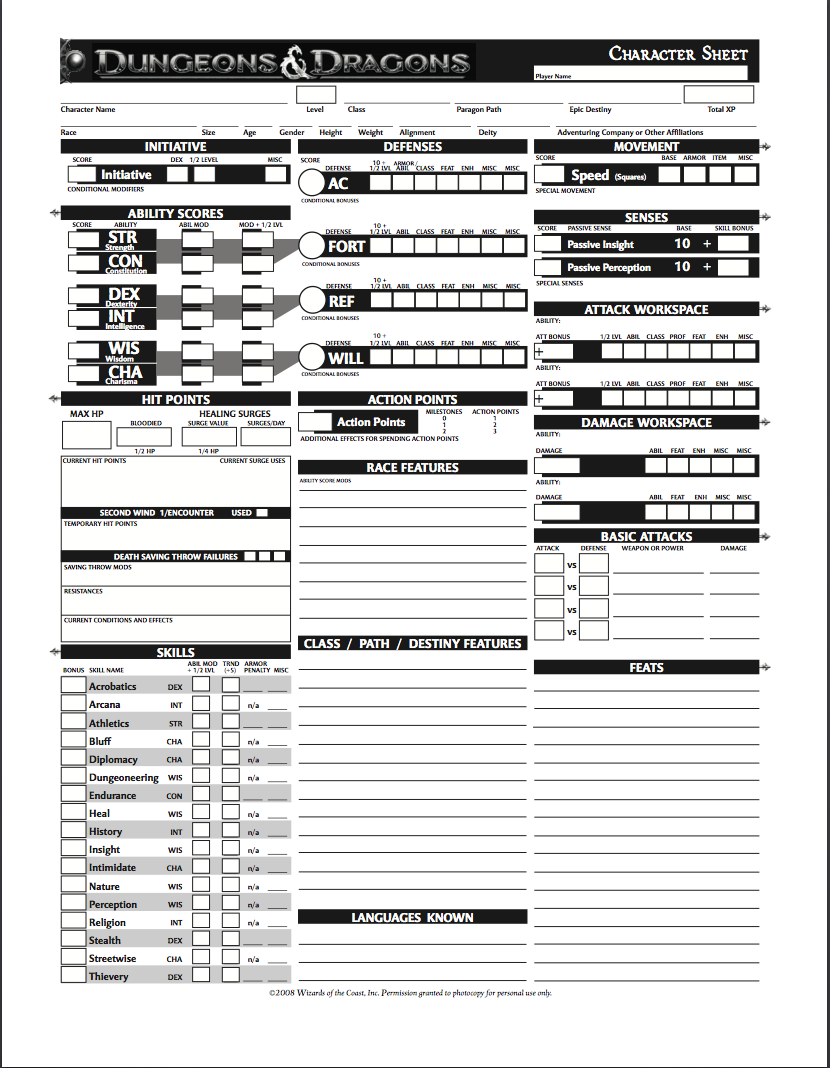
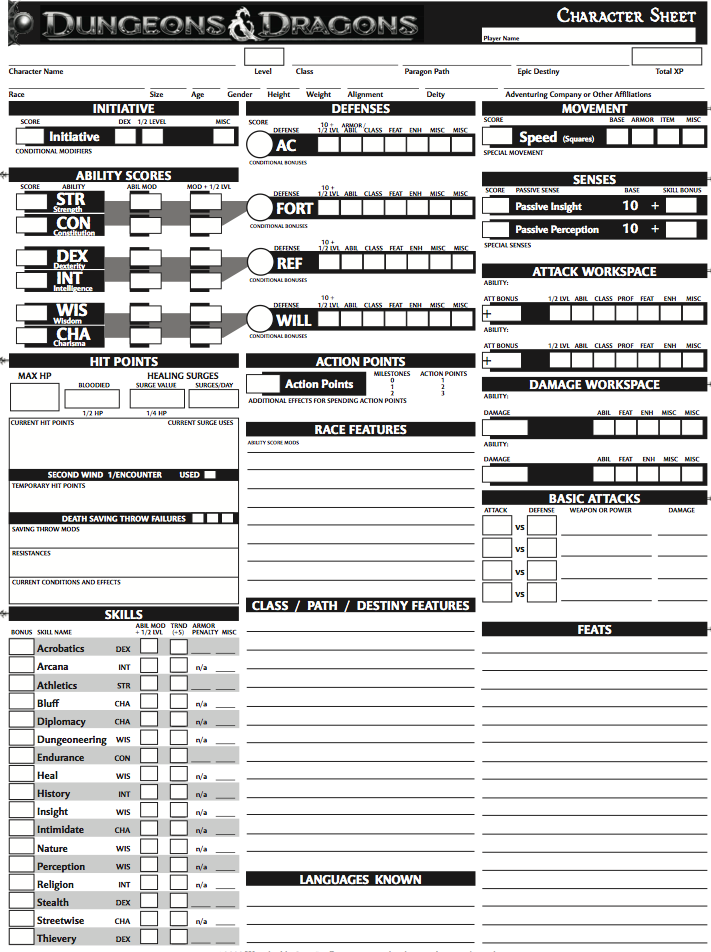
mhrbdfsgksj

diff --git a/DNDGraphics.java b/DNDGraphics.java
@@ -4,17 +4,22 @@ import java.awt.*;
 import java.awt.Font;
 import java.util.Random;
 import java.awt.event.*;
+import javax.imageio.*;
+import java.io.*;
 
 
 public class DNDGraphics extends Applet implements MouseListener, MouseMotionListener{
 
 
-   int[] yPoints = {250,550,550};
-   int[] xPoints = {1350,1150,1550};
+   int[] yPointsTriangle = {250,550,550};
+   int[] xPointsTriangle = {1350,1150,1550};
    
    int mouseX;
    int mouseY;
    
+   public Image img = null;
+   public Image imag = null;
+      
    public boolean ifD4 = false;
    public boolean ifD6 = false;
    public boolean ifD8 = false;
@@ -23,8 +28,15 @@ public class DNDGraphics extends Applet implements MouseListener, MouseMotionLis
    public boolean ifD20 = false;
    public boolean ifRollButtonPressed;
    public boolean mouseDown;
+   public boolean ifReset = false;
+   public boolean ifFlipped = true;
+   public boolean ifEdit = false;
+   
+   DiceRoller something = new DiceRoller();
+   
+   public Font myFont = new Font("Comic Sans MS", Font.BOLD, 48);
+   public Font normal = new Font("serif", Font.BOLD, 20);
 
-   public int n;
    public int die;
    public String theDie = "";
    
@@ -32,9 +44,12 @@ public class DNDGraphics extends Applet implements MouseListener, MouseMotionLis
       setSize(1915, 1280);
       setBackground(new Color(102, 51, 0));
       addMouseListener(this);
-      addMouseMotionListener(this);      /*
-      Font myFont= new Font("TimesRoman", Font.BOLD, 24);
-      theDie.setFont(myFont);*/ 
+      addMouseMotionListener(this);   
+      try {
+           img = ImageIO.read(new File("DND Front Sheet1.png"));
+           imag = ImageIO.read(new File("DND Back Sheet1.png"));
+       } catch (IOException e) {
+       }   
    }
    
    public void mouseClicked(MouseEvent e){
@@ -61,9 +76,18 @@ public class DNDGraphics extends Applet implements MouseListener, MouseMotionLis
    }
    
    public void paint(Graphics g){
-      
-      g.setColor(Color.white);
-      g.fillRect(15, 15, 750, 895);
+   g.setFont(normal);
+      if(ifFlipped){
+         /*g.setColor(Color.white);
+         g.fillRect(15, 15, 750, 895);
+         */
+         g.drawImage(img,15,15,null);
+      }
+      else{
+         /*g.setColor(Color.black);
+         g.fillRect(15,15,750,895);*/
+         g.drawImage(imag,15,15,null);
+      }   
       
       g.setColor(Color.gray);
       g.fillRect(1690,25,100,50);
@@ -73,50 +97,136 @@ public class DNDGraphics extends Applet implements MouseListener, MouseMotionLis
       g.fillRect(1090,25,100,50);
       g.fillRect(940,25,100,50);
       g.fillRect(1250,700,200,100);
+      g.fillRect(1550,700,200,100);
+      g.fillRect(730,75,50,50);
+      g.fillRect(730,850,50,50);
       
       if(mouseDown && mouseX>=1250 && mouseX<=1450 && mouseY>=700 && mouseY<=800)
          ifRollButtonPressed = true;
-      else
-         ifRollButtonPressed = false;
+
       if(mouseDown && mouseX>=1690 && mouseX<=1790 && mouseY>=25 && mouseY<=75)
         ifD20  = true;
-      else
-        ifD20  = false;
+
       if(mouseDown && mouseX>=1540 && mouseX<=1640 && mouseY>=25 && mouseY<=75)
         ifD12  = true;
-      else
-        ifD12  = false;
+
       if(mouseDown && mouseX>=1390 && mouseX<= 1490 && mouseY>=25 && mouseY<=75)
         ifD10  = true;
-      else
-         ifD10 = false;
+
       if(mouseDown && mouseX>=1240 && mouseX<=1340 && mouseY>=25 && mouseY<=75)
          ifD8 = true;
-      else
-         ifD8 = false;
+
       if(mouseDown && mouseX>=1090 && mouseX<=1190 && mouseY>=25 && mouseY<=75)
          ifD6 = true;
-      else
-         ifD6 = false;
+         
       if(mouseDown && mouseX>=940 && mouseX<=1040 && mouseY>=25 && mouseY<=75)
-         ifD4 = true;
-      else  
-         ifD4 = false;               
+         ifD4 = true; 
+         
+      if(mouseDown && mouseX>=1550 && mouseX<=1750 && mouseY>=700 && mouseY<=800)
+         ifReset = true;
+      else
+         ifReset = false;  
+      
+      if(mouseDown && mouseX>730 && mouseX<=780 && mouseY>=75 && mouseY<=125){
+         if(ifFlipped){
+            ifFlipped = false; 
+            g.setColor(Color.darkGray);
+            g.fillRect(730,75,50,50);
+         }    
+         else{
+            ifFlipped = true;
+            g.setColor(Color.darkGray);
+            g.fillRect(730,75,50,50); 
+         }     
+      }      
+      if(mouseDown && mouseX>=730 && mouseX<=780 && mouseY>=850 && mouseY<=900)
+         ifEdit = true;
+      else
+         ifEdit = false;        
+             
+      if(ifReset){
+         g.setColor(Color.darkGray);
+         g.fillRect(1550,700,200,100);
+         ifD4 = false;
+         ifD6 = false;
+         ifD8 = false;
+         ifD10 = false;
+         ifD12 = false;
+         ifD20 = false;
+         ifRollButtonPressed = false;
+      }            
+      if(ifEdit){
+         g.setColor(Color.darkGray);
+         g.fillRect(730,850,50,50);
+      }                 
       if(ifRollButtonPressed){
          g.setColor(Color.darkGray);
          g.fillRect(1250,700,200,100);
-         if(ifD4)
-            DiceRollerD4();
-         if(ifD6)
-            DiceRollerD6();
-         if(ifD8)
-            DiceRollerD8();
-         if(ifD10)
-            DiceRollerD10();
-         if(ifD12)
-            DiceRollerD12();
-         if(ifD20)
-            DiceRollerD20();
+         if(ifD4){
+            die = something.DiceRollerD4();
+            theDie = "" + die;
+            g.setColor(Color.white);
+            g.fillPolygon(xPointsTriangle, yPointsTriangle, 3);
+            g.setColor(Color.blue);
+            g.setFont(myFont);
+            g.drawString(theDie,1340,450);
+            g.setFont(normal);
+         }   
+         if(ifD6){
+            die = something.DiceRollerD6();
+            theDie = "" + die;
+            g.setColor(Color.white);
+            g.fillRect(1200,250,300,300);
+            g.setColor(Color.blue);
+            g.setFont(myFont);
+            g.drawString(theDie,1340,420);
+            g.setFont(normal);
+         }   
+         if(ifD8){
+            die = something.DiceRollerD8();
+            theDie = "" + die;
+            g.setColor(Color.white);
+            g.fillPolygon(xPointsTriangle, yPointsTriangle, 3);
+            g.setColor(Color.blue);
+            g.setFont(myFont);
+            g.drawString(theDie,1340,450); 
+            g.setFont(normal);         
+         }   
+         if(ifD10){
+            die = something.DiceRollerD10();
+            theDie = "" + die;
+            g.setColor(Color.white);
+            g.fillPolygon(xPointsTriangle, yPointsTriangle, 3);
+            g.setColor(Color.blue);
+            g.setFont(myFont);
+            g.drawString(theDie,1340,450);
+            g.setFont(normal);
+         }   
+         if(ifD12){
+            die = something.DiceRollerD12();
+            theDie = "" + die;
+            g.setColor(Color.white);
+            int[] xPoints = {1250,1150,1350,1550,1450};
+            int[] yPoints = {600,400,200,400,600};
+            g.fillPolygon(xPoints, yPoints, 5);
+            g.setColor(Color.blue);
+            g.setFont(myFont);
+            g.drawString(theDie,1340,450);
+            g.setFont(normal);
+         }   
+         if(ifD20){
+            die = something.DiceRollerD20();
+            theDie = "" + die;
+            g.setColor(Color.white);
+            g.fillPolygon(xPointsTriangle, yPointsTriangle, 3);
+            g.setColor(Color.blue);
+            g.setFont(myFont);
+            if(theDie.length() == 2)
+               g.drawString(theDie,1330,450);
+            else
+               g.drawString(theDie,1340,450);
+            g.setFont(normal);
+         }   
       }
       if(ifD4){
          g.setColor(Color.darkGray);
@@ -141,35 +251,6 @@ public class DNDGraphics extends Applet implements MouseListener, MouseMotionLis
       if(ifD20){
          g.setColor(Color.darkGray);
          g.fillRect(1690,25,100,50);
-      }
-      
-      //   drawing die
-      g.setColor(Color.white);
-      if(n == 1){
-         ifD4 = true;
-         g.fillPolygon(xPoints, yPoints, 3);
-      }
-      else if(n == 2){
-         ifD6 = true;
-         g.fillRect(1200,250,300,300);
-      }   
-      else if(n == 3){
-         ifD8 = true;
-         g.fillPolygon(xPoints, yPoints, 3);
-      }   
-      else if(n == 4){
-         ifD10 = true;
-         g.fillPolygon(xPoints, yPoints, 3);
-      }   
-      else if(n == 5){
-         ifD12 = true;  
-         int[] xPoints = {1300,1250,1350,1450,1400};
-         int[] yPoints = {500,400,300,400,500};
-         g.fillPolygon(xPoints, yPoints, 5);
-      }
-      else if(n == 6){
-         ifD20 = true;
-         g.fillPolygon(xPoints, yPoints, 3);
       }  
        
       //rolls the die  
@@ -184,5 +265,8 @@ public class DNDGraphics extends Applet implements MouseListener, MouseMotionLis
       g.drawString("6",1130,55);
       g.drawString("4",980,55);
       g.drawString("Roll",1330,755);
+      g.drawString("Reset",1630,755);
+      g.drawString("Flip",740,100);
+      g.drawString("Edit",740,875);
    }
 }
